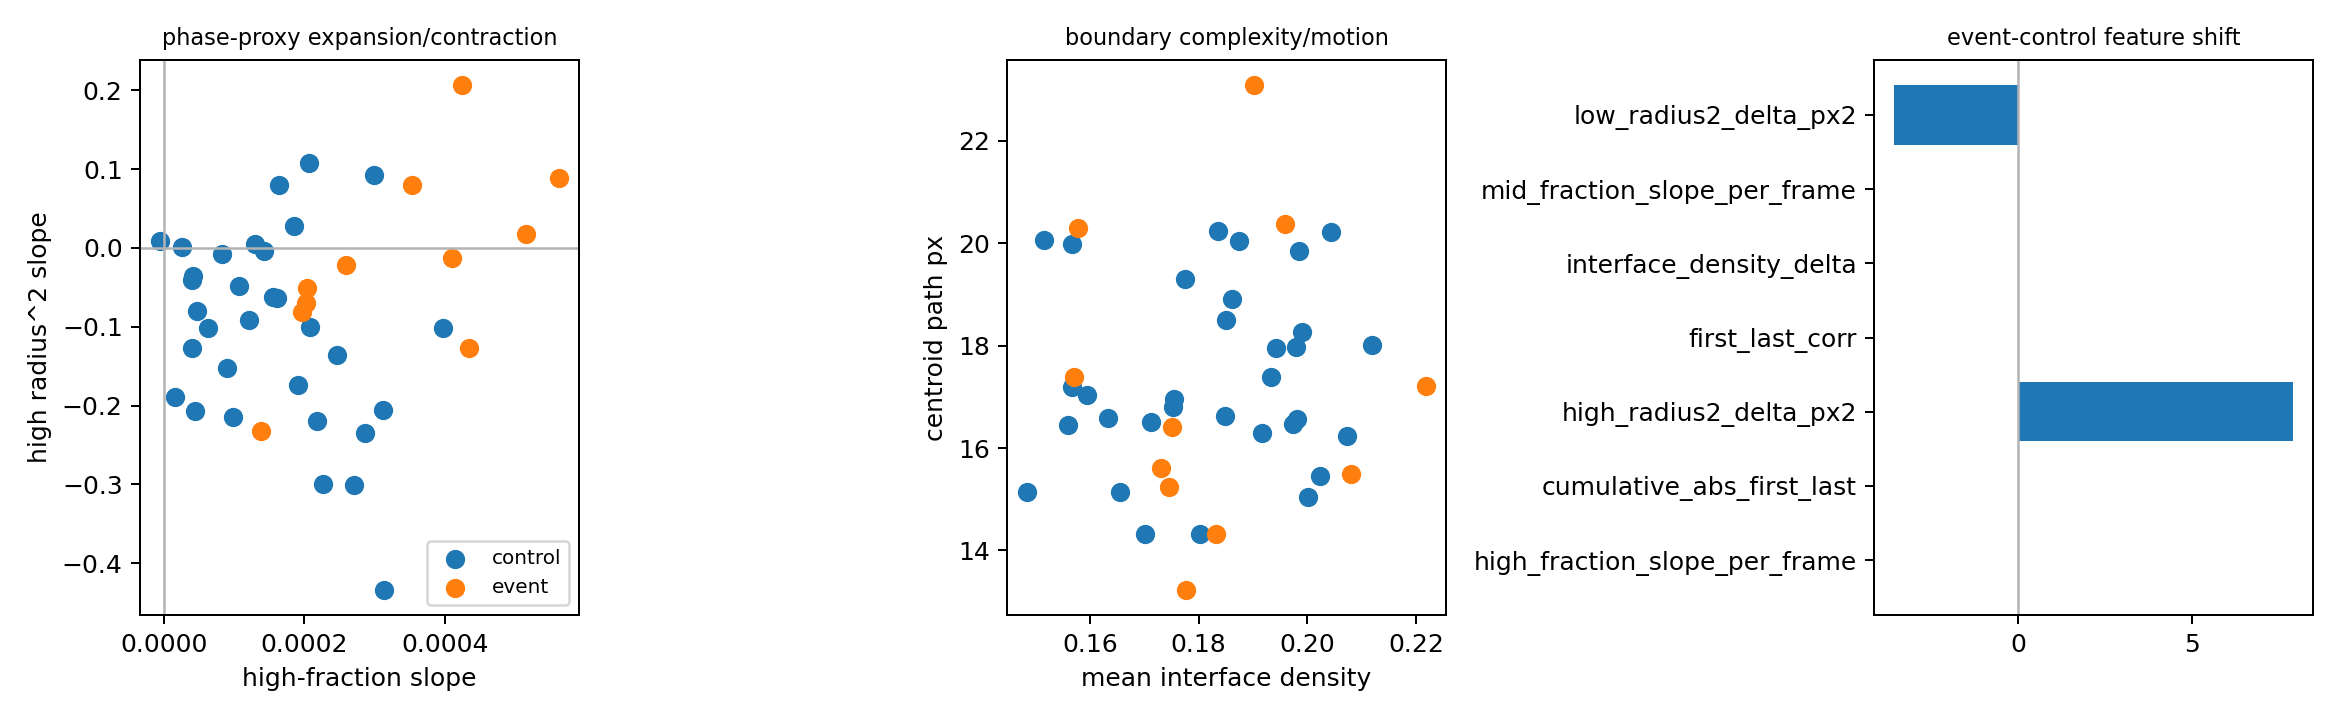
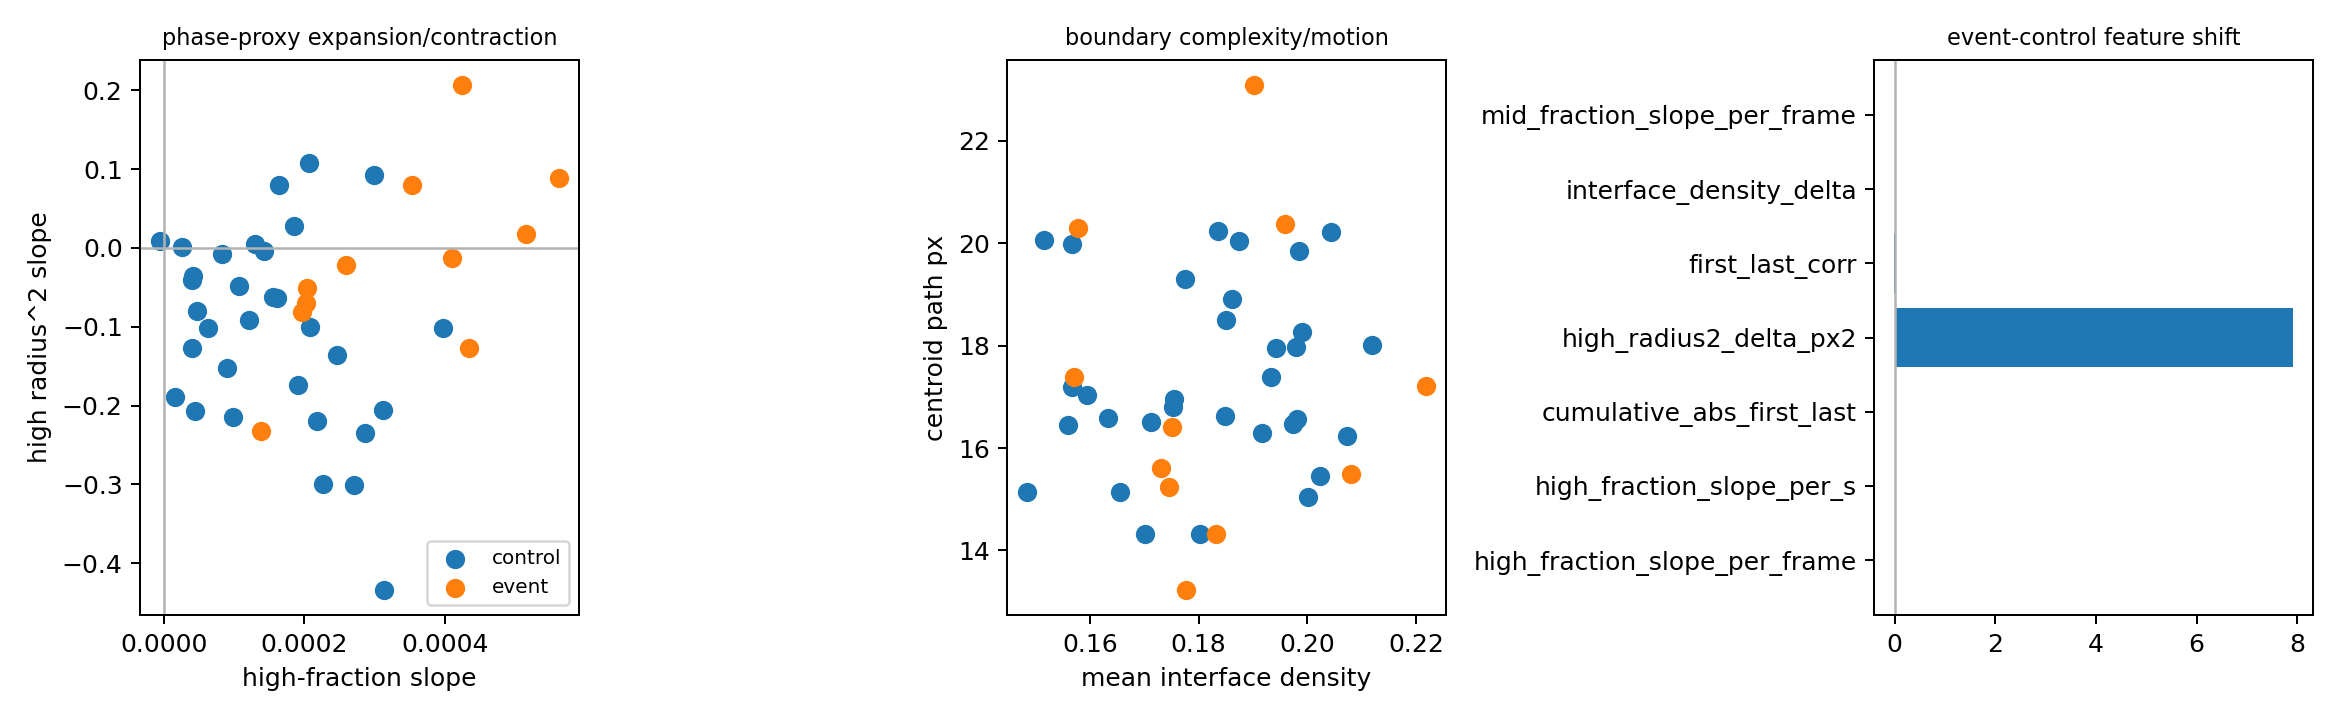
Add timing-normalized NMC phase mobility metrics

diff --git a/scripts/tier3_roi_phase_boundary_mobility.py b/scripts/tier3_roi_phase_boundary_mobility.py
@@ -17,6 +17,7 @@ from typing import Dict, List
 import matplotlib
 matplotlib.use("Agg")
 import matplotlib.pyplot as plt
+import h5py
 import numpy as np
 import pandas as pd
 from scipy import ndimage as ndi
@@ -172,12 +173,57 @@ def load_control_map(control_table_path: str) -> Dict[str, float]:
     return dict(zip(table["roi_id"], table["control_for_event_cycle"]))
 
 
-def descriptors_for_manifest(manifest_path: str, roi_class: str, control_map: Dict[str, float]) -> pd.DataFrame:
+
+def timing_seconds(root: str, source_stem: str, frame_indices: np.ndarray) -> Dict[str, float]:
+    if not root:
+        return {"timing_elapsed_s": np.nan, "seconds_per_sample": np.nan}
+    h5_path = os.path.join(root, "NMC_degradation_3_160623_Halfthedata", f"{source_stem}.hdf5")
+    if not os.path.exists(h5_path):
+        return {"timing_elapsed_s": np.nan, "seconds_per_sample": np.nan}
+    try:
+        with h5py.File(h5_path, "r") as f:
+            if "camera_timing" not in f:
+                return {"timing_elapsed_s": np.nan, "seconds_per_sample": np.nan}
+            timing = np.asarray(f["camera_timing"])
+    except Exception:
+        return {"timing_elapsed_s": np.nan, "seconds_per_sample": np.nan}
+    if timing.ndim == 1:
+        trace = timing
+    else:
+        trace = timing.reshape(-1, timing.shape[-1])[0]
+    frame_indices = np.asarray(frame_indices, dtype=int)
+    frame_indices = frame_indices[(frame_indices >= 0) & (frame_indices < len(trace))]
+    if len(frame_indices) < 2:
+        return {"timing_elapsed_s": np.nan, "seconds_per_sample": np.nan}
+    t = trace[frame_indices].astype(float)
+    elapsed_raw = float(np.nanmax(t) - np.nanmin(t))
+    # HDF5 camera_timing is nanosecond-like in the NMC movies.
+    elapsed_s = elapsed_raw / 1e9 if elapsed_raw > 1e6 else elapsed_raw
+    return {
+        "timing_elapsed_s": elapsed_s,
+        "seconds_per_sample": elapsed_s / float(len(frame_indices) - 1) if elapsed_s > 0 else np.nan,
+    }
+
+
+def descriptors_for_manifest(manifest_path: str, roi_class: str, control_map: Dict[str, float], root: str) -> pd.DataFrame:
     manifest = pd.read_csv(manifest_path)
     rows: List[Dict[str, object]] = []
     for _, row in manifest.iterrows():
         with np.load(row["npz_path"]) as data:
             features = trace_features(data["frames_norm"])
+            frame_indices = data["frame_indices"] if "frame_indices" in data else np.array([], dtype=int)
+        timing = timing_seconds(root, str(row.get("source_stem", "")), frame_indices)
+        seconds_per_sample = timing["seconds_per_sample"]
+        if np.isfinite(seconds_per_sample) and seconds_per_sample > 0:
+            for col in [
+                "high_fraction_slope_per_frame",
+                "low_fraction_slope_per_frame",
+                "mid_fraction_slope_per_frame",
+                "high_radius2_slope_px2_per_frame",
+                "low_radius2_slope_px2_per_frame",
+                "interface_density_slope_per_frame",
+            ]:
+                features[col.replace("_per_frame", "_per_s")] = features[col] / seconds_per_sample
         event_cycle = float(row["cycleNo"]) if roi_class == "event" else finite_float(control_map.get(row["roi_id"]), np.nan)
         out = {
             "roi_id": row["roi_id"],
@@ -188,6 +234,7 @@ def descriptors_for_manifest(manifest_path: str, roi_class: str, control_map: Di
             "source_stem": row.get("source_stem", ""),
             "stage_drift_xy_sampled": finite_float(row.get("stage_drift_xy_sampled")),
             "roi_norm_mean_delta_last_minus_first": finite_float(row.get("roi_norm_mean_delta_last_minus_first")),
+            **timing,
         }
         out.update(features)
         rows.append(out)
@@ -248,27 +295,34 @@ def main() -> None:
     parser.add_argument("--event-manifest", default="/scratch/u6hp/nsagar.u6hp/Alek_Jiho/derived/selected_roi_sequences/selected_roi_sequence_manifest.csv")
     parser.add_argument("--control-manifest", default="/scratch/u6hp/nsagar.u6hp/Alek_Jiho/derived/control_roi_sequences_expanded/selected_roi_sequence_manifest.csv")
     parser.add_argument("--control-table", default="/scratch/u6hp/nsagar.u6hp/Alek_Jiho/derived/control_roi_selection_expanded/selected_control_rois.csv")
+    parser.add_argument("--root", default="/scratch/u6hp/nsagar.u6hp/Alek_Jiho")
     parser.add_argument("--out-dir", default="/scratch/u6hp/nsagar.u6hp/Alek_Jiho/derived/roi_phase_boundary_mobility")
     args = parser.parse_args()
 
     control_map = load_control_map(args.control_table)
-    event_df = descriptors_for_manifest(args.event_manifest, "event", control_map)
-    control_df = descriptors_for_manifest(args.control_manifest, "control", control_map)
+    event_df = descriptors_for_manifest(args.event_manifest, "event", control_map, args.root)
+    control_df = descriptors_for_manifest(args.control_manifest, "control", control_map, args.root)
     df = pd.concat([event_df, control_df], ignore_index=True)
     features = [
         "high_fraction_delta",
         "high_fraction_slope_per_frame",
+        "high_fraction_slope_per_s",
         "low_fraction_delta",
         "low_fraction_slope_per_frame",
+        "low_fraction_slope_per_s",
         "mid_fraction_delta",
         "mid_fraction_slope_per_frame",
+        "mid_fraction_slope_per_s",
         "high_radius2_delta_px2",
         "high_radius2_slope_px2_per_frame",
+        "high_radius2_slope_px2_per_s",
         "low_radius2_delta_px2",
         "low_radius2_slope_px2_per_frame",
+        "low_radius2_slope_px2_per_s",
         "interface_density_mean",
         "interface_density_delta",
         "interface_density_slope_per_frame",
+        "interface_density_slope_per_s",
         "centroid_path_px",
         "centroid_net_px",
         "temporal_diff_energy",
@@ -279,7 +333,9 @@ def main() -> None:
     group = df.groupby(["roi_class", "event_cycle"], dropna=False).agg({
         "roi_id": "count",
         "high_fraction_slope_per_frame": "mean",
+        "high_fraction_slope_per_s": "mean",
         "high_radius2_slope_px2_per_frame": "mean",
+        "high_radius2_slope_px2_per_s": "mean",
         "interface_density_mean": "mean",
         "centroid_path_px": "mean",
         "first_last_corr": "mean",
@@ -309,6 +365,7 @@ def main() -> None:
         "event_manifest": args.event_manifest,
         "control_manifest": args.control_manifest,
         "control_table": args.control_table,
+        "root": args.root,
         "n_event_roi": int((df["is_event_roi"] == 1).sum()),
         "n_control_roi": int((df["is_event_roi"] == 0).sum()),
         "event_cycles": sorted(float(x) for x in event_df["event_cycle"].dropna().unique()),
@@ -322,7 +379,9 @@ def main() -> None:
             "event_cycle",
             "mobility_score",
             "high_fraction_slope_per_frame",
+            "high_fraction_slope_per_s",
             "high_radius2_slope_px2_per_frame",
+            "high_radius2_slope_px2_per_s",
             "interface_density_mean",
             "centroid_path_px",
             "first_last_corr",

diff --git a/OBJECTIVES_OBSERVATIONS.md b/OBJECTIVES_OBSERVATIONS.md
@@ -698,6 +698,7 @@ Key result:
 - Computed threshold-front mobility proxies on the selected event ROI tensors and expanded matched controls: bright/high phase fraction slopes, mid-threshold front fraction, high/low apparent radius-squared changes, interface-density changes, centroid path, first-last correlation, and first-last absolute change.
 - Compared 11 event ROIs with 32 expanded control ROIs from cycles 88, 90, 92, and 118.
 - Event ROIs show faster high-phase fraction growth than controls: mean slope 3.36e-4 vs 1.54e-4 per frame, Mann-Whitney p=0.00097.
+- Using HDF5 `camera_timing`, those high-phase growth rates correspond to 3.51e-6/s for events vs 1.60e-6/s for expanded controls; sampled ROI frames are roughly 10 s apart.
 - Event ROIs show larger first-last absolute change: 0.01213 vs 0.00828, p=0.00925, and lower first-last correlation: 0.9863 vs 0.9957, p=0.0118.
 - The apparent high-phase radius-squared change is larger for events: +7.01 px^2 vs -0.91 px^2, p=0.0100. This is a phase-boundary proxy only, not a calibrated diffusion coefficient.
 - Interface density increases slightly in event ROIs but decreases in controls: [phone redacted] vs -0.00182, p=0.0241.